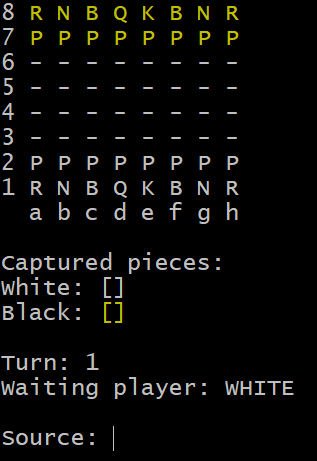
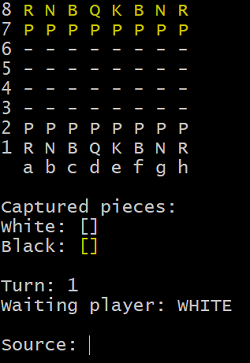
Altered README.md and assets

diff --git a/README.md b/README.md
@@ -25,7 +25,7 @@ $ cd bin
 $ java application/Main
 # The program should start as below
 ```
-<h1 align="center">
+<h1 align="left">
   <img alt="chess-system-java" title="#ChessSystem" src="./assets/chess-system.png" />
 </h1>
 
